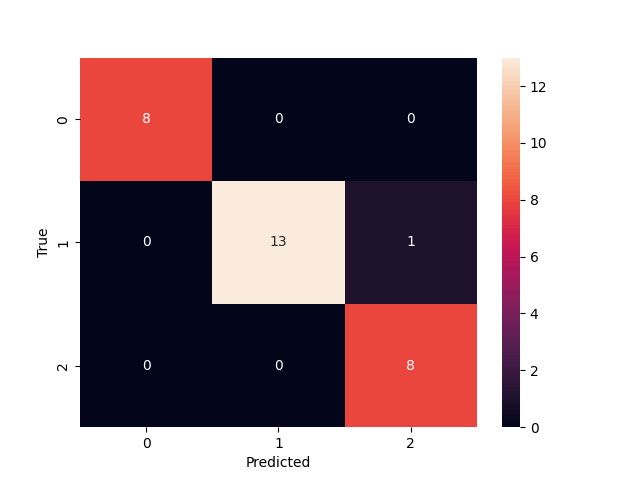
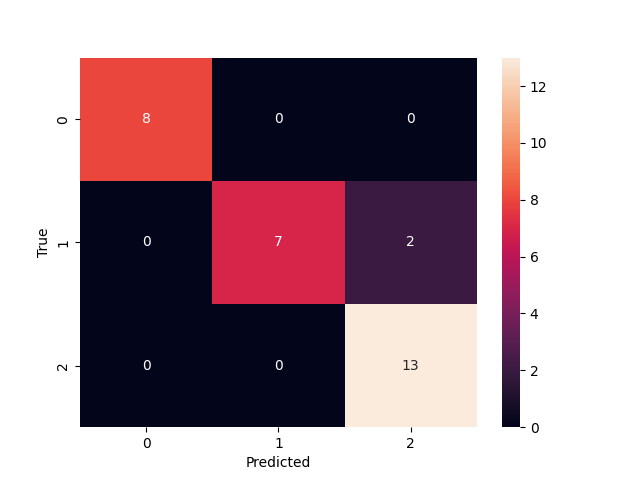
[ci skip] feat: Switch from LOF to LoOP 159f6636bb6f1e7258f9ad8b32a72dbca5c3bd67

Changed region(s): [[0.3125, 0.375, 0.75, 0.9062]]

diff --git a/searchindex.js b/searchindex.js
@@ -1,1 +1,1 @@
-Search.setIndex({"alltitles":{"API Reference":[[0,null]],"Computation times":[[3,null],[9,null]],"Example Gallery":[[1,null]],"Examples using icrlearn.ICRRandomForestClassifier":[[4,"examples-using-icrlearn-icrrandomforestclassifier"]],"Fitting and evaluating an ICR Random Forest":[[2,null]],"ICRRandomForestClassifier":[[4,null],[10,"icrrandomforestclassifier"]],"Predictor":[[0,"predictor"]],"User Guide":[[10,null]],"Utilities":[[0,"utilities"]],"icrlearn.utils.discovery.all_displays":[[5,null]],"icrlearn.utils.discovery.all_estimators":[[6,null]],"icrlearn.utils.discovery.all_functions":[[7,null]],"intra-class-rare-learn Documentation":[[8,null]]},"docnames":["api","auto_examples/index","auto_examples/plot_classifier","auto_examples/sg_execution_times","generated/icrlearn.ICRRandomForestClassifier","generated/icrlearn.utils.discovery.all_displays","generated/icrlearn.utils.discovery.all_estimators","generated/icrlearn.utils.discovery.all_functions","index","sg_execution_times","user_guide"],"envversion":{"sphinx":65,"sphinx.domains.c":3,"sphinx.domains.changeset":1,"sphinx.domains.citation":1,"sphinx.domains.cpp":9,"sphinx.domains.index":1,"sphinx.domains.javascript":3,"sphinx.domains.math":2,"sphinx.domains.python":4,"sphinx.domains.rst":2,"sphinx.domains.std":2,"sphinx.ext.intersphinx":1},"filenames":["api.rst","auto_examples/index.rst","auto_examples/plot_classifier.rst","auto_examples/sg_execution_times.rst","generated/icrlearn.ICRRandomForestClassifier.rst","generated/icrlearn.utils.discovery.all_displays.rst","generated/icrlearn.utils.discovery.all_estimators.rst","generated/icrlearn.utils.discovery.all_functions.rst","index.rst","sg_execution_times.rst","user_guide.rst"],"indexentries":{"all_displays() (in module icrlearn.utils.discovery)":[[5,"icrlearn.utils.discovery.all_displays",false]],"all_estimators() (in module icrlearn.utils.discovery)":[[6,"icrlearn.utils.discovery.all_estimators",false]],"all_functions() (in module icrlearn.utils.discovery)":[[7,"icrlearn.utils.discovery.all_functions",false]],"apply() (icrlearn.icrrandomforestclassifier method)":[[4,"icrlearn.ICRRandomForestClassifier.apply",false]],"calculate_rarity_scores() (icrlearn.icrrandomforestclassifier method)":[[4,"icrlearn.ICRRandomForestClassifier.calculate_rarity_scores",false]],"decision_path() (icrlearn.icrrandomforestclassifier method)":[[4,"icrlearn.ICRRandomForestClassifier.decision_path",false]],"estimators_samples_ (icrlearn.icrrandomforestclassifier property)":[[4,"icrlearn.ICRRandomForestClassifier.estimators_samples_",false]],"feature_importances_ (icrlearn.icrrandomforestclassifier property)":[[4,"icrlearn.ICRRandomForestClassifier.feature_importances_",false]],"fit() (icrlearn.icrrandomforestclassifier method)":[[4,"icrlearn.ICRRandomForestClassifier.fit",false]],"get_metadata_routing() (icrlearn.icrrandomforestclassifier method)":[[4,"icrlearn.ICRRandomForestClassifier.get_metadata_routing",false]],"get_params() (icrlearn.icrrandomforestclassifier method)":[[4,"icrlearn.ICRRandomForestClassifier.get_params",false]],"icrrandomforestclassifier (class in icrlearn)":[[4,"icrlearn.ICRRandomForestClassifier",false]],"predict() (icrlearn.icrrandomforestclassifier method)":[[4,"icrlearn.ICRRandomForestClassifier.predict",false]],"predict_log_proba() (icrlearn.icrrandomforestclassifier method)":[[4,"icrlearn.ICRRandomForestClassifier.predict_log_proba",false]],"predict_proba() (icrlearn.icrrandomforestclassifier method)":[[4,"icrlearn.ICRRandomForestClassifier.predict_proba",false]],"score() (icrlearn.icrrandomforestclassifier method)":[[4,"icrlearn.ICRRandomForestClassifier.score",false]],"set_fit_request() (icrlearn.icrrandomforestclassifier method)":[[4,"icrlearn.ICRRandomForestClassifier.set_fit_request",false]],"set_params() (icrlearn.icrrandomforestclassifier method)":[[4,"icrlearn.ICRRandomForestClassifier.set_params",false]],"set_score_request() (icrlearn.icrrandomforestclassifier method)":[[4,"icrlearn.ICRRandomForestClassifier.set_score_request",false]]},"objects":{"icrlearn":[[4,0,1,"","ICRRandomForestClassifier"]],"icrlearn.ICRRandomForestClassifier":[[4,1,1,"","apply"],[4,1,1,"","calculate_rarity_scores"],[4,1,1,"","decision_path"],[4,2,1,"","estimators_samples_"],[4,2,1,"","feature_importances_"],[4,1,1,"","fit"],[4,1,1,"","get_metadata_routing"],[4,1,1,"","get_params"],[4,1,1,"","predict"],[4,1,1,"","predict_log_proba"],[4,1,1,"","predict_proba"],[4,1,1,"","score"],[4,1,1,"","set_fit_request"],[4,1,1,"","set_params"],[4,1,1,"","set_score_request"]],"icrlearn.utils.discovery":[[5,3,1,"","all_displays"],[6,3,1,"","all_estimators"],[7,3,1,"","all_functions"]]},"objnames":{"0":["py","class","Python class"],"1":["py","method","Python method"],"2":["py","property","Python property"],"3":["py","function","Python function"]},"objtypes":{"0":"py:class","1":"py:method","2":"py:property","3":"py:function"},"terms":{"":[2,4,8],"0":[2,3,4,8,9],"00":[2,3,9],"1":[2,3,4,8,9],"100":4,"12":8,"14":2,"18":4,"2":[2,4],"2025":8,"3":4,"30":2,"611":[2,3,9],"8":2,"89":2,"93":2,"94":2,"96":2,"97":2,"98":2,"A":[4,8],"For":4,"If":[4,6],"In":[2,4],"It":[4,8],"That":4,"The":[4,8,10],"To":8,"__":4,"accuraci":[2,4],"across":4,"actual":[5,6,7],"ad":4,"algorithm":10,"alia":4,"all":[1,4,5,6,7,9],"allow":4,"also":4,"altern":4,"an":[1,3,4,8,9],"ani":4,"annot":2,"api":8,"appli":[4,6],"ar":[4,6,8],"arrai":4,"attribut":4,"auto_exampl":3,"auto_examples_jupyt":1,"auto_examples_python":1,"avg":2,"bag":4,"base":4,"baseestim":6,"bool":4,"bootstrap":4,"brought":4,"build":4,"built":8,"calcul":4,"calculate_rarity_scor":4,"call":[4,10],"can":4,"cardin":4,"carri":4,"case":4,"ccp_alpha":4,"chang":4,"check":4,"child":4,"class":[0,4,5,6,10],"class_weight":4,"classes_":4,"classif":4,"classifi":[2,4,6],"classification_report":2,"clf":2,"cluster":6,"code":[1,2],"column":4,"compat":8,"compon":4,"comput":4,"conf_matr":2,"confus":2,"confusion_matrix":2,"consist":4,"contain":4,"convert":4,"correctli":4,"correspond":4,"crawl":6,"creat":4,"criterion":4,"csc_matrix":4,"csr":4,"csr_matrix":4,"data":[4,10],"datapoint":4,"dataset":[2,4],"date":8,"decis":4,"decision_path":4,"deep":4,"default":[4,6],"defin":6,"demonstr":8,"descript":8,"design":10,"detail":8,"dict":4,"displai":5,"download":[1,2],"drawn":4,"dtype":4,"dynam":4,"e":4,"each":4,"effect":4,"either":4,"element":4,"enable_metadata_rout":4,"encapsul":4,"end":[2,4],"ensembl":4,"equal":4,"error":4,"estim":[4,6,8],"estimators_samples_":4,"evalu":[1,3,4,9],"exampl":[2,3,5,6,7,8,9],"execut":[3,9],"exist":4,"expect":4,"f1":2,"fals":4,"featur":4,"feature_importances_":4,"fetch":4,"file":[3,9],"filter":6,"fit":[1,3,4,6,9],"float":4,"float32":4,"footprint":4,"forest":[1,3,4,9,10],"form":[4,10],"format":4,"fraction":4,"from":[2,3,4,5,6,7,9],"full":2,"function":[0,6,7],"g":4,"galleri":[2,8,9],"gener":[1,2,4],"get":[4,5,6,7],"get_metadata_rout":4,"get_param":4,"gini":4,"give":4,"given":4,"go":2,"goe":4,"guid":[0,4,8],"ha":4,"handl":[8,10],"harsh":4,"have":4,"heatmap":2,"high":4,"higher":4,"highest":4,"how":[0,4,8],"i":[0,4,5,6,7,8,10],"icr":[1,3,4,9],"icr_rf":4,"icrlearn":[2,10],"icrrandomforestclassifi":2,"identifi":4,"ignor":4,"imbal":10,"import":[2,4,5,6,7],"impur":4,"includ":6,"index":4,"indic":4,"inform":[0,4],"inherit":6,"input":4,"insid":4,"inspect":4,"instanc":4,"instead":4,"intern":4,"intra":[0,4,10],"introductori":1,"ipynb":2,"iri":2,"its":4,"jupyt":[1,2],"kind":6,"known":4,"label":4,"latter":4,"leaf":4,"learn":[0,4],"least":6,"librari":8,"like":4,"link":8,"list":[4,5,6,7],"load":2,"load_iri":[2,4],"lof":4,"log":4,"macro":2,"mai":[4,8],"mani":4,"map":4,"matplotlib":2,"matrix":[2,4],"max_depth":4,"max_featur":4,"max_leaf_nod":4,"max_sampl":4,"mb":[3,9],"mean":4,"measur":4,"mechan":4,"mem":[3,9],"member":4,"memori":4,"meta":4,"metadata":4,"metadata_rout":4,"metadatarequest":4,"method":4,"metric":[2,4],"min_impurity_decreas":4,"min_samples_leaf":4,"min_samples_split":4,"min_weight_fraction_leaf":4,"minut":2,"mislead":4,"model_select":2,"modif":10,"modul":6,"monotonic_cst":4,"more":[0,4],"multi":4,"n_class":4,"n_estim":4,"n_featur":4,"n_job":4,"n_node":4,"n_nodes_ptr":4,"n_output":4,"n_sampl":4,"name":[4,5,6,7],"ndarrai":4,"neg":4,"nest":4,"net":4,"new":[8,10],"node":4,"non":4,"none":[4,6],"normal":4,"note":4,"notebook":[1,2],"np":4,"number":4,"object":4,"one":[4,6],"onli":[4,6],"oob_scor":4,"option":4,"order":4,"origin":4,"other":4,"otherwis":4,"overview":8,"p":4,"packag":[0,8,10],"param":4,"paramet":[4,6],"pass":4,"path":4,"permutation_import":4,"pipelin":4,"place":8,"pleas":4,"plot":2,"plot_classifi":[2,3,9],"plt":2,"possibl":[4,6],"precis":2,"predict":[2,4],"predict_log_proba":4,"predict_proba":4,"print":2,"probabl":4,"properti":4,"provid":[4,8,10],"py":[2,3,9],"pyplot":2,"python":[1,2],"r":4,"rais":4,"random":[1,3,4,9,10],"random_st":4,"randomforestclassifi":4,"rare":[0,10],"rariti":[4,8],"rarity_measur":4,"rarity_scor":4,"re":4,"real":4,"recal":2,"reduc":4,"reduct":4,"refer":8,"regress":4,"regressor":6,"relev":4,"repositori":8,"request":4,"requir":4,"result":4,"retain":4,"return":[4,5,6,7],"return_x_i":[2,4],"rf":4,"right":8,"root":4,"rout":4,"run":2,"same":4,"sampl":[4,10],"sample_weight":4,"scikit":4,"score":[2,4],"script":2,"seaborn":2,"search":4,"second":2,"see":4,"self":4,"set":[2,4,8],"set_config":4,"set_fit_request":4,"set_param":4,"set_score_request":4,"shape":4,"should":[4,6],"show":2,"simpl":4,"sinc":4,"singl":4,"sklearn":[2,4,8],"slower":4,"sn":2,"so":4,"some":[2,4],"sourc":[1,2,8],"spars":4,"specif":6,"sphinx":[1,2],"split":[2,4],"sqrt":4,"start":8,"store":4,"str":[4,6],"string":[5,6,7],"sub":4,"subobject":4,"subset":4,"sum":4,"support":2,"t":4,"target":4,"test":[2,4,6],"test_siz":2,"th":4,"than":4,"thei":4,"thi":[0,2,4,6,8,10],"through":4,"thu":4,"time":2,"total":[2,3,4,9],"train":[2,4],"train_test_split":2,"transform":6,"tree":4,"true":[2,4],"tupl":[5,6,7],"type":[5,6],"type_filt":6,"unchang":4,"uniqu":4,"unless":4,"up":4,"updat":4,"us":[0,8],"user":[0,4,8],"util":4,"valu":[4,6],"verbos":4,"version":[4,8],"vote":4,"w":4,"warm_start":4,"warn":4,"we":2,"weight":[2,4],"well":4,"where":[4,5,6,7],"which":[4,6],"while":4,"within":[8,10],"work":4,"would":4,"x":[2,4],"x_leav":4,"x_test":2,"x_train":2,"xlabel":2,"y":[2,4],"y_pred":2,"y_test":2,"y_train":2,"ylabel":2,"you":[4,8],"zero":4,"zip":[1,2]},"titles":["API Reference","Example Gallery","Fitting and evaluating an ICR Random Forest","Computation times","ICRRandomForestClassifier","icrlearn.utils.discovery.all_displays","icrlearn.utils.discovery.all_estimators","icrlearn.utils.discovery.all_functions","intra-class-rare-learn Documentation","Computation times","User guide : contents"],"titleterms":{"all_displai":5,"all_estim":6,"all_funct":7,"an":2,"api":0,"class":8,"comput":[3,9],"discoveri":[5,6,7],"document":8,"evalu":2,"exampl":[1,4],"fit":2,"forest":2,"galleri":1,"guid":10,"icr":2,"icrlearn":[4,5,6,7],"icrrandomforestclassifi":[4,10],"intra":8,"learn":8,"predictor":0,"random":2,"rare":8,"refer":0,"time":[3,9],"us":4,"user":10,"util":[0,5,6,7]}})
+Search.setIndex({"alltitles":{"API Reference":[[0,null]],"Computation times":[[3,null],[9,null]],"Example Gallery":[[1,null]],"Examples using icrlearn.ICRRandomForestClassifier":[[4,"examples-using-icrlearn-icrrandomforestclassifier"]],"Fitting and evaluating an ICR Random Forest":[[2,null]],"ICRRandomForestClassifier":[[4,null],[10,"icrrandomforestclassifier"]],"Predictor":[[0,"predictor"]],"User Guide":[[10,null]],"Utilities":[[0,"utilities"]],"icrlearn.utils.discovery.all_displays":[[5,null]],"icrlearn.utils.discovery.all_estimators":[[6,null]],"icrlearn.utils.discovery.all_functions":[[7,null]],"intra-class-rare-learn Documentation":[[8,null]]},"docnames":["api","auto_examples/index","auto_examples/plot_classifier","auto_examples/sg_execution_times","generated/icrlearn.ICRRandomForestClassifier","generated/icrlearn.utils.discovery.all_displays","generated/icrlearn.utils.discovery.all_estimators","generated/icrlearn.utils.discovery.all_functions","index","sg_execution_times","user_guide"],"envversion":{"sphinx":65,"sphinx.domains.c":3,"sphinx.domains.changeset":1,"sphinx.domains.citation":1,"sphinx.domains.cpp":9,"sphinx.domains.index":1,"sphinx.domains.javascript":3,"sphinx.domains.math":2,"sphinx.domains.python":4,"sphinx.domains.rst":2,"sphinx.domains.std":2,"sphinx.ext.intersphinx":1},"filenames":["api.rst","auto_examples/index.rst","auto_examples/plot_classifier.rst","auto_examples/sg_execution_times.rst","generated/icrlearn.ICRRandomForestClassifier.rst","generated/icrlearn.utils.discovery.all_displays.rst","generated/icrlearn.utils.discovery.all_estimators.rst","generated/icrlearn.utils.discovery.all_functions.rst","index.rst","sg_execution_times.rst","user_guide.rst"],"indexentries":{"all_displays() (in module icrlearn.utils.discovery)":[[5,"icrlearn.utils.discovery.all_displays",false]],"all_estimators() (in module icrlearn.utils.discovery)":[[6,"icrlearn.utils.discovery.all_estimators",false]],"all_functions() (in module icrlearn.utils.discovery)":[[7,"icrlearn.utils.discovery.all_functions",false]],"apply() (icrlearn.icrrandomforestclassifier method)":[[4,"icrlearn.ICRRandomForestClassifier.apply",false]],"calculate_rarity_scores() (icrlearn.icrrandomforestclassifier method)":[[4,"icrlearn.ICRRandomForestClassifier.calculate_rarity_scores",false]],"decision_path() (icrlearn.icrrandomforestclassifier method)":[[4,"icrlearn.ICRRandomForestClassifier.decision_path",false]],"estimators_samples_ (icrlearn.icrrandomforestclassifier property)":[[4,"icrlearn.ICRRandomForestClassifier.estimators_samples_",false]],"feature_importances_ (icrlearn.icrrandomforestclassifier property)":[[4,"icrlearn.ICRRandomForestClassifier.feature_importances_",false]],"fit() (icrlearn.icrrandomforestclassifier method)":[[4,"icrlearn.ICRRandomForestClassifier.fit",false]],"get_metadata_routing() (icrlearn.icrrandomforestclassifier method)":[[4,"icrlearn.ICRRandomForestClassifier.get_metadata_routing",false]],"get_params() (icrlearn.icrrandomforestclassifier method)":[[4,"icrlearn.ICRRandomForestClassifier.get_params",false]],"icrrandomforestclassifier (class in icrlearn)":[[4,"icrlearn.ICRRandomForestClassifier",false]],"predict() (icrlearn.icrrandomforestclassifier method)":[[4,"icrlearn.ICRRandomForestClassifier.predict",false]],"predict_log_proba() (icrlearn.icrrandomforestclassifier method)":[[4,"icrlearn.ICRRandomForestClassifier.predict_log_proba",false]],"predict_proba() (icrlearn.icrrandomforestclassifier method)":[[4,"icrlearn.ICRRandomForestClassifier.predict_proba",false]],"score() (icrlearn.icrrandomforestclassifier method)":[[4,"icrlearn.ICRRandomForestClassifier.score",false]],"set_fit_request() (icrlearn.icrrandomforestclassifier method)":[[4,"icrlearn.ICRRandomForestClassifier.set_fit_request",false]],"set_params() (icrlearn.icrrandomforestclassifier method)":[[4,"icrlearn.ICRRandomForestClassifier.set_params",false]],"set_score_request() (icrlearn.icrrandomforestclassifier method)":[[4,"icrlearn.ICRRandomForestClassifier.set_score_request",false]]},"objects":{"icrlearn":[[4,0,1,"","ICRRandomForestClassifier"]],"icrlearn.ICRRandomForestClassifier":[[4,1,1,"","apply"],[4,1,1,"","calculate_rarity_scores"],[4,1,1,"","decision_path"],[4,2,1,"","estimators_samples_"],[4,2,1,"","feature_importances_"],[4,1,1,"","fit"],[4,1,1,"","get_metadata_routing"],[4,1,1,"","get_params"],[4,1,1,"","predict"],[4,1,1,"","predict_log_proba"],[4,1,1,"","predict_proba"],[4,1,1,"","score"],[4,1,1,"","set_fit_request"],[4,1,1,"","set_params"],[4,1,1,"","set_score_request"]],"icrlearn.utils.discovery":[[5,3,1,"","all_displays"],[6,3,1,"","all_estimators"],[7,3,1,"","all_functions"]]},"objnames":{"0":["py","class","Python class"],"1":["py","method","Python method"],"2":["py","property","Python property"],"3":["py","function","Python function"]},"objtypes":{"0":"py:class","1":"py:method","2":"py:property","3":"py:function"},"terms":{"":[2,4,8],"0":[2,3,4,8,9],"00":[2,3,9],"1":[2,3,4,8,9],"100":4,"12":8,"13":2,"18":4,"2":[2,4],"2025":8,"3":4,"30":2,"624":[2,3,9],"78":2,"8":2,"87":2,"88":2,"9":2,"93":2,"94":2,"96":2,"A":[4,8],"For":4,"If":[4,6],"In":[2,4],"It":[4,8],"That":4,"The":[4,8,10],"To":8,"__":4,"accuraci":[2,4],"across":4,"actual":[5,6,7],"ad":4,"algorithm":10,"alia":4,"all":[1,4,5,6,7,9],"allow":4,"also":4,"altern":4,"an":[1,3,4,8,9],"ani":4,"annot":2,"api":8,"appli":[4,6],"ar":[4,6,8],"arrai":4,"attribut":4,"auto_exampl":3,"auto_examples_jupyt":1,"auto_examples_python":1,"avg":2,"bag":4,"base":4,"baseestim":6,"bool":4,"bootstrap":4,"brought":4,"build":4,"built":8,"calcul":4,"calculate_rarity_scor":4,"call":[4,10],"can":4,"cardin":4,"carri":4,"case":4,"cb_loop":4,"ccp_alpha":4,"chang":4,"check":4,"child":4,"class":[0,4,5,6,10],"class_weight":4,"classes_":4,"classif":4,"classifi":[2,4,6],"classification_report":2,"clf":2,"cluster":6,"code":[1,2],"column":4,"compat":8,"compon":4,"comput":4,"conf_matr":2,"confus":2,"confusion_matrix":2,"consist":4,"contain":4,"convert":4,"correctli":4,"correspond":4,"crawl":6,"creat":4,"criterion":4,"csc_matrix":4,"csr":4,"csr_matrix":4,"data":[4,10],"datapoint":4,"dataset":[2,4],"date":8,"decis":4,"decision_path":4,"deep":4,"default":[4,6],"defin":6,"demonstr":8,"descript":8,"design":10,"detail":8,"dict":4,"displai":5,"download":[1,2],"drawn":4,"dtype":4,"dynam":4,"e":4,"each":4,"effect":4,"either":4,"element":4,"enable_metadata_rout":4,"encapsul":4,"end":[2,4],"ensembl":4,"equal":4,"error":4,"estim":[4,6,8],"estimators_samples_":4,"evalu":[1,3,4,9],"exampl":[2,3,5,6,7,8,9],"execut":[3,9],"exist":4,"expect":4,"f1":2,"fals":4,"featur":4,"feature_importances_":4,"fetch":4,"file":[3,9],"filter":6,"fit":[1,3,4,6,9],"float":4,"float32":4,"footprint":4,"forest":[1,3,4,9,10],"form":[4,10],"format":4,"fraction":4,"from":[2,3,4,5,6,7,9],"full":2,"function":[0,6,7],"g":4,"galleri":[2,8,9],"gener":[1,2,4],"get":[4,5,6,7],"get_metadata_rout":4,"get_param":4,"gini":4,"give":4,"given":4,"go":2,"goe":4,"guid":[0,4,8],"ha":4,"handl":[8,10],"harsh":4,"have":4,"heatmap":2,"high":4,"higher":4,"highest":4,"how":[0,4,8],"i":[0,4,5,6,7,8,10],"icr":[1,3,4,9],"icr_rf":4,"icrlearn":[2,10],"icrrandomforestclassifi":2,"identifi":4,"ignor":4,"imbal":10,"import":[2,4,5,6,7],"impur":4,"includ":6,"index":4,"indic":4,"inform":[0,4],"inherit":6,"input":4,"insid":4,"inspect":4,"instanc":4,"instead":4,"intern":4,"intra":[0,4,10],"introductori":1,"ipynb":2,"iri":2,"its":4,"jupyt":[1,2],"kind":6,"known":4,"label":4,"latter":4,"leaf":4,"learn":[0,4],"least":6,"librari":8,"like":4,"link":8,"list":[4,5,6,7],"load":2,"load_iri":[2,4],"log":4,"macro":2,"mai":[4,8],"mani":4,"map":4,"matplotlib":2,"matrix":[2,4],"max_depth":4,"max_featur":4,"max_leaf_nod":4,"max_sampl":4,"mb":[3,9],"mean":4,"measur":4,"mechan":4,"mem":[3,9],"member":4,"memori":4,"meta":4,"metadata":4,"metadata_rout":4,"metadatarequest":4,"method":4,"metric":[2,4],"min_impurity_decreas":4,"min_samples_leaf":4,"min_samples_split":4,"min_weight_fraction_leaf":4,"minut":2,"mislead":4,"model_select":2,"modif":10,"modul":6,"monotonic_cst":4,"more":[0,4],"multi":4,"n_class":4,"n_estim":4,"n_featur":4,"n_job":4,"n_node":4,"n_nodes_ptr":4,"n_output":4,"n_sampl":4,"name":[4,5,6,7],"ndarrai":4,"neg":4,"nest":4,"net":4,"new":[8,10],"node":4,"non":4,"none":[4,6],"normal":4,"note":4,"notebook":[1,2],"np":4,"number":4,"object":4,"one":[4,6],"onli":[4,6],"oob_scor":4,"option":4,"order":4,"origin":4,"other":4,"otherwis":4,"overview":8,"p":4,"packag":[0,8,10],"param":4,"paramet":[4,6],"pass":4,"path":4,"permutation_import":4,"pipelin":4,"place":8,"pleas":4,"plot":2,"plot_classifi":[2,3,9],"plt":2,"possibl":[4,6],"precis":2,"predict":[2,4],"predict_log_proba":4,"predict_proba":4,"print":2,"probabl":4,"properti":4,"provid":[4,8,10],"py":[2,3,9],"pyplot":2,"python":[1,2],"r":4,"rais":4,"random":[1,3,4,9,10],"random_st":4,"randomforestclassifi":4,"rare":[0,10],"rariti":[4,8],"rarity_measur":4,"rarity_scor":4,"re":4,"real":4,"recal":2,"reduc":4,"reduct":4,"refer":8,"regress":4,"regressor":6,"relev":4,"repositori":8,"request":4,"requir":4,"result":4,"retain":4,"return":[4,5,6,7],"return_x_i":[2,4],"rf":4,"right":8,"root":4,"rout":4,"run":2,"same":4,"sampl":[4,10],"sample_weight":4,"scikit":4,"score":[2,4],"script":2,"seaborn":2,"search":4,"second":2,"see":4,"self":4,"set":[2,4,8],"set_config":4,"set_fit_request":4,"set_param":4,"set_score_request":4,"shape":4,"should":[4,6],"show":2,"simpl":4,"sinc":4,"singl":4,"sklearn":[2,4,8],"slower":4,"sn":2,"so":4,"some":[2,4],"sourc":[1,2,8],"spars":4,"specif":6,"sphinx":[1,2],"split":[2,4],"sqrt":4,"start":8,"store":4,"str":[4,6],"string":[5,6,7],"sub":4,"subobject":4,"subset":4,"sum":4,"support":2,"t":4,"target":4,"test":[2,4,6],"test_siz":2,"th":4,"than":4,"thei":4,"thi":[0,2,4,6,8,10],"through":4,"thu":4,"time":2,"total":[2,3,4,9],"train":[2,4],"train_test_split":2,"transform":6,"tree":4,"true":[2,4],"tupl":[5,6,7],"type":[5,6],"type_filt":6,"unchang":4,"uniqu":4,"unless":4,"up":4,"updat":4,"us":[0,8],"user":[0,4,8],"util":4,"valu":[4,6],"verbos":4,"version":[4,8],"vote":4,"w":4,"warm_start":4,"warn":4,"we":2,"weight":[2,4],"well":4,"where":[4,5,6,7],"which":[4,6],"while":4,"within":[8,10],"work":4,"would":4,"x":[2,4],"x_leav":4,"x_test":2,"x_train":2,"xlabel":2,"y":[2,4],"y_pred":2,"y_test":2,"y_train":2,"ylabel":2,"you":[4,8],"zero":4,"zip":[1,2]},"titles":["API Reference","Example Gallery","Fitting and evaluating an ICR Random Forest","Computation times","ICRRandomForestClassifier","icrlearn.utils.discovery.all_displays","icrlearn.utils.discovery.all_estimators","icrlearn.utils.discovery.all_functions","intra-class-rare-learn Documentation","Computation times","User guide : contents"],"titleterms":{"all_displai":5,"all_estim":6,"all_funct":7,"an":2,"api":0,"class":8,"comput":[3,9],"discoveri":[5,6,7],"document":8,"evalu":2,"exampl":[1,4],"fit":2,"forest":2,"galleri":1,"guid":10,"icr":2,"icrlearn":[4,5,6,7],"icrrandomforestclassifi":[4,10],"intra":8,"learn":8,"predictor":0,"random":2,"rare":8,"refer":0,"time":[3,9],"us":4,"user":10,"util":[0,5,6,7]}})

diff --git a/auto_examples/plot_classifier.html b/auto_examples/plot_classifier.html
@@ -406,12 +406,12 @@ to download the full example code.</p>
 <div class="sphx-glr-script-out highlight-none notranslate"><div class="highlight"><pre><span></span>              precision    recall  f1-score   support
 
            0       1.00      1.00      1.00         8
-           1       1.00      0.93      0.96        14
-           2       0.89      1.00      0.94         8
+           1       1.00      0.78      0.88         9
+           2       0.87      1.00      0.93        13
 
-    accuracy                           0.97        30
-   macro avg       0.96      0.98      0.97        30
-weighted avg       0.97      0.97      0.97        30
+    accuracy                           0.93        30
+   macro avg       0.96      0.93      0.93        30
+weighted avg       0.94      0.93      0.93        30
 </pre></div>
 </div>
 <p>Plot a confusion matrix of the classifier’s predictions</p>
@@ -426,7 +426,7 @@ weighted avg       0.97      0.97      0.97        30
 <a href="https://matplotlib.org/stable/api/_as_gen/matplotlib.pyplot.show.html#matplotlib.pyplot.show" title="matplotlib.pyplot.show" class="sphx-glr-backref-module-matplotlib-pyplot sphx-glr-backref-type-py-function"><span class="n">plt</span><span class="o">.</span><span class="n">show</span></a><span class="p">()</span>
 </pre></div>
 </div>
-<img src="../_images/sphx_glr_plot_classifier_001.png" srcset="../_images/sphx_glr_plot_classifier_001.png" alt="plot classifier" class = "sphx-glr-single-img"/><p class="sphx-glr-timing"><strong>Total running time of the script:</strong> (0 minutes 0.611 seconds)</p>
+<img src="../_images/sphx_glr_plot_classifier_001.png" srcset="../_images/sphx_glr_plot_classifier_001.png" alt="plot classifier" class = "sphx-glr-single-img"/><p class="sphx-glr-timing"><strong>Total running time of the script:</strong> (0 minutes 0.624 seconds)</p>
 <div class="sphx-glr-footer sphx-glr-footer-example docutils container" id="sphx-glr-download-auto-examples-plot-classifier-py">
 <div class="sphx-glr-download sphx-glr-download-jupyter docutils container">
 <p><a class="reference download internal" download="" href="../_downloads/fed3e85cac62fc93e088aa8cb008d467/plot_classifier.ipynb"><code class="xref download docutils literal notranslate"><span class="pre">Download</span> <span class="pre">Jupyter</span> <span class="pre">notebook:</span> <span class="pre">plot_classifier.ipynb</span></code></a></p>

diff --git a/sg_execution_times.html b/sg_execution_times.html
@@ -359,7 +359,7 @@
                   
   <section id="computation-times">
 <span id="sphx-glr-sg-execution-times"></span><h1>Computation times<a class="headerlink" href="#computation-times" title="Link to this heading">#</a></h1>
-<p><strong>00:00.611</strong> total execution time for 1 file <strong>from all galleries</strong>:</p>
+<p><strong>00:00.624</strong> total execution time for 1 file <strong>from all galleries</strong>:</p>
 <div class="docutils container">
 <style scoped>
 <link href="https://cdnjs.cloudflare.com/ajax/libs/twitter-bootstrap/5.3.0/css/bootstrap.min.css" rel="stylesheet" />
@@ -381,7 +381,7 @@ $(document).ready( function () {
 </thead>
 <tbody>
 <tr class="row-even"><td><p><a class="reference internal" href="auto_examples/plot_classifier.html#sphx-glr-auto-examples-plot-classifier-py"><span class="std std-ref">Fitting and evaluating an ICR Random Forest</span></a> (<code class="docutils literal notranslate"><span class="pre">../examples/plot_classifier.py</span></code>)</p></td>
-<td><p>00:00.611</p></td>
+<td><p>00:00.624</p></td>
 <td><p>0.0</p></td>
 </tr>
 </tbody>

diff --git a/auto_examples/sg_execution_times.html b/auto_examples/sg_execution_times.html
@@ -359,7 +359,7 @@
                   
   <section id="computation-times">
 <span id="sphx-glr-auto-examples-sg-execution-times"></span><h1>Computation times<a class="headerlink" href="#computation-times" title="Link to this heading">#</a></h1>
-<p><strong>00:00.611</strong> total execution time for 1 file <strong>from auto_examples</strong>:</p>
+<p><strong>00:00.624</strong> total execution time for 1 file <strong>from auto_examples</strong>:</p>
 <div class="docutils container">
 <style scoped>
 <link href="https://cdnjs.cloudflare.com/ajax/libs/twitter-bootstrap/5.3.0/css/bootstrap.min.css" rel="stylesheet" />
@@ -381,7 +381,7 @@ $(document).ready( function () {
 </thead>
 <tbody>
 <tr class="row-even"><td><p><a class="reference internal" href="plot_classifier.html#sphx-glr-auto-examples-plot-classifier-py"><span class="std std-ref">Fitting and evaluating an ICR Random Forest</span></a> (<code class="docutils literal notranslate"><span class="pre">plot_classifier.py</span></code>)</p></td>
-<td><p>00:00.611</p></td>
+<td><p>00:00.624</p></td>
 <td><p>0.0</p></td>
 </tr>
 </tbody>
